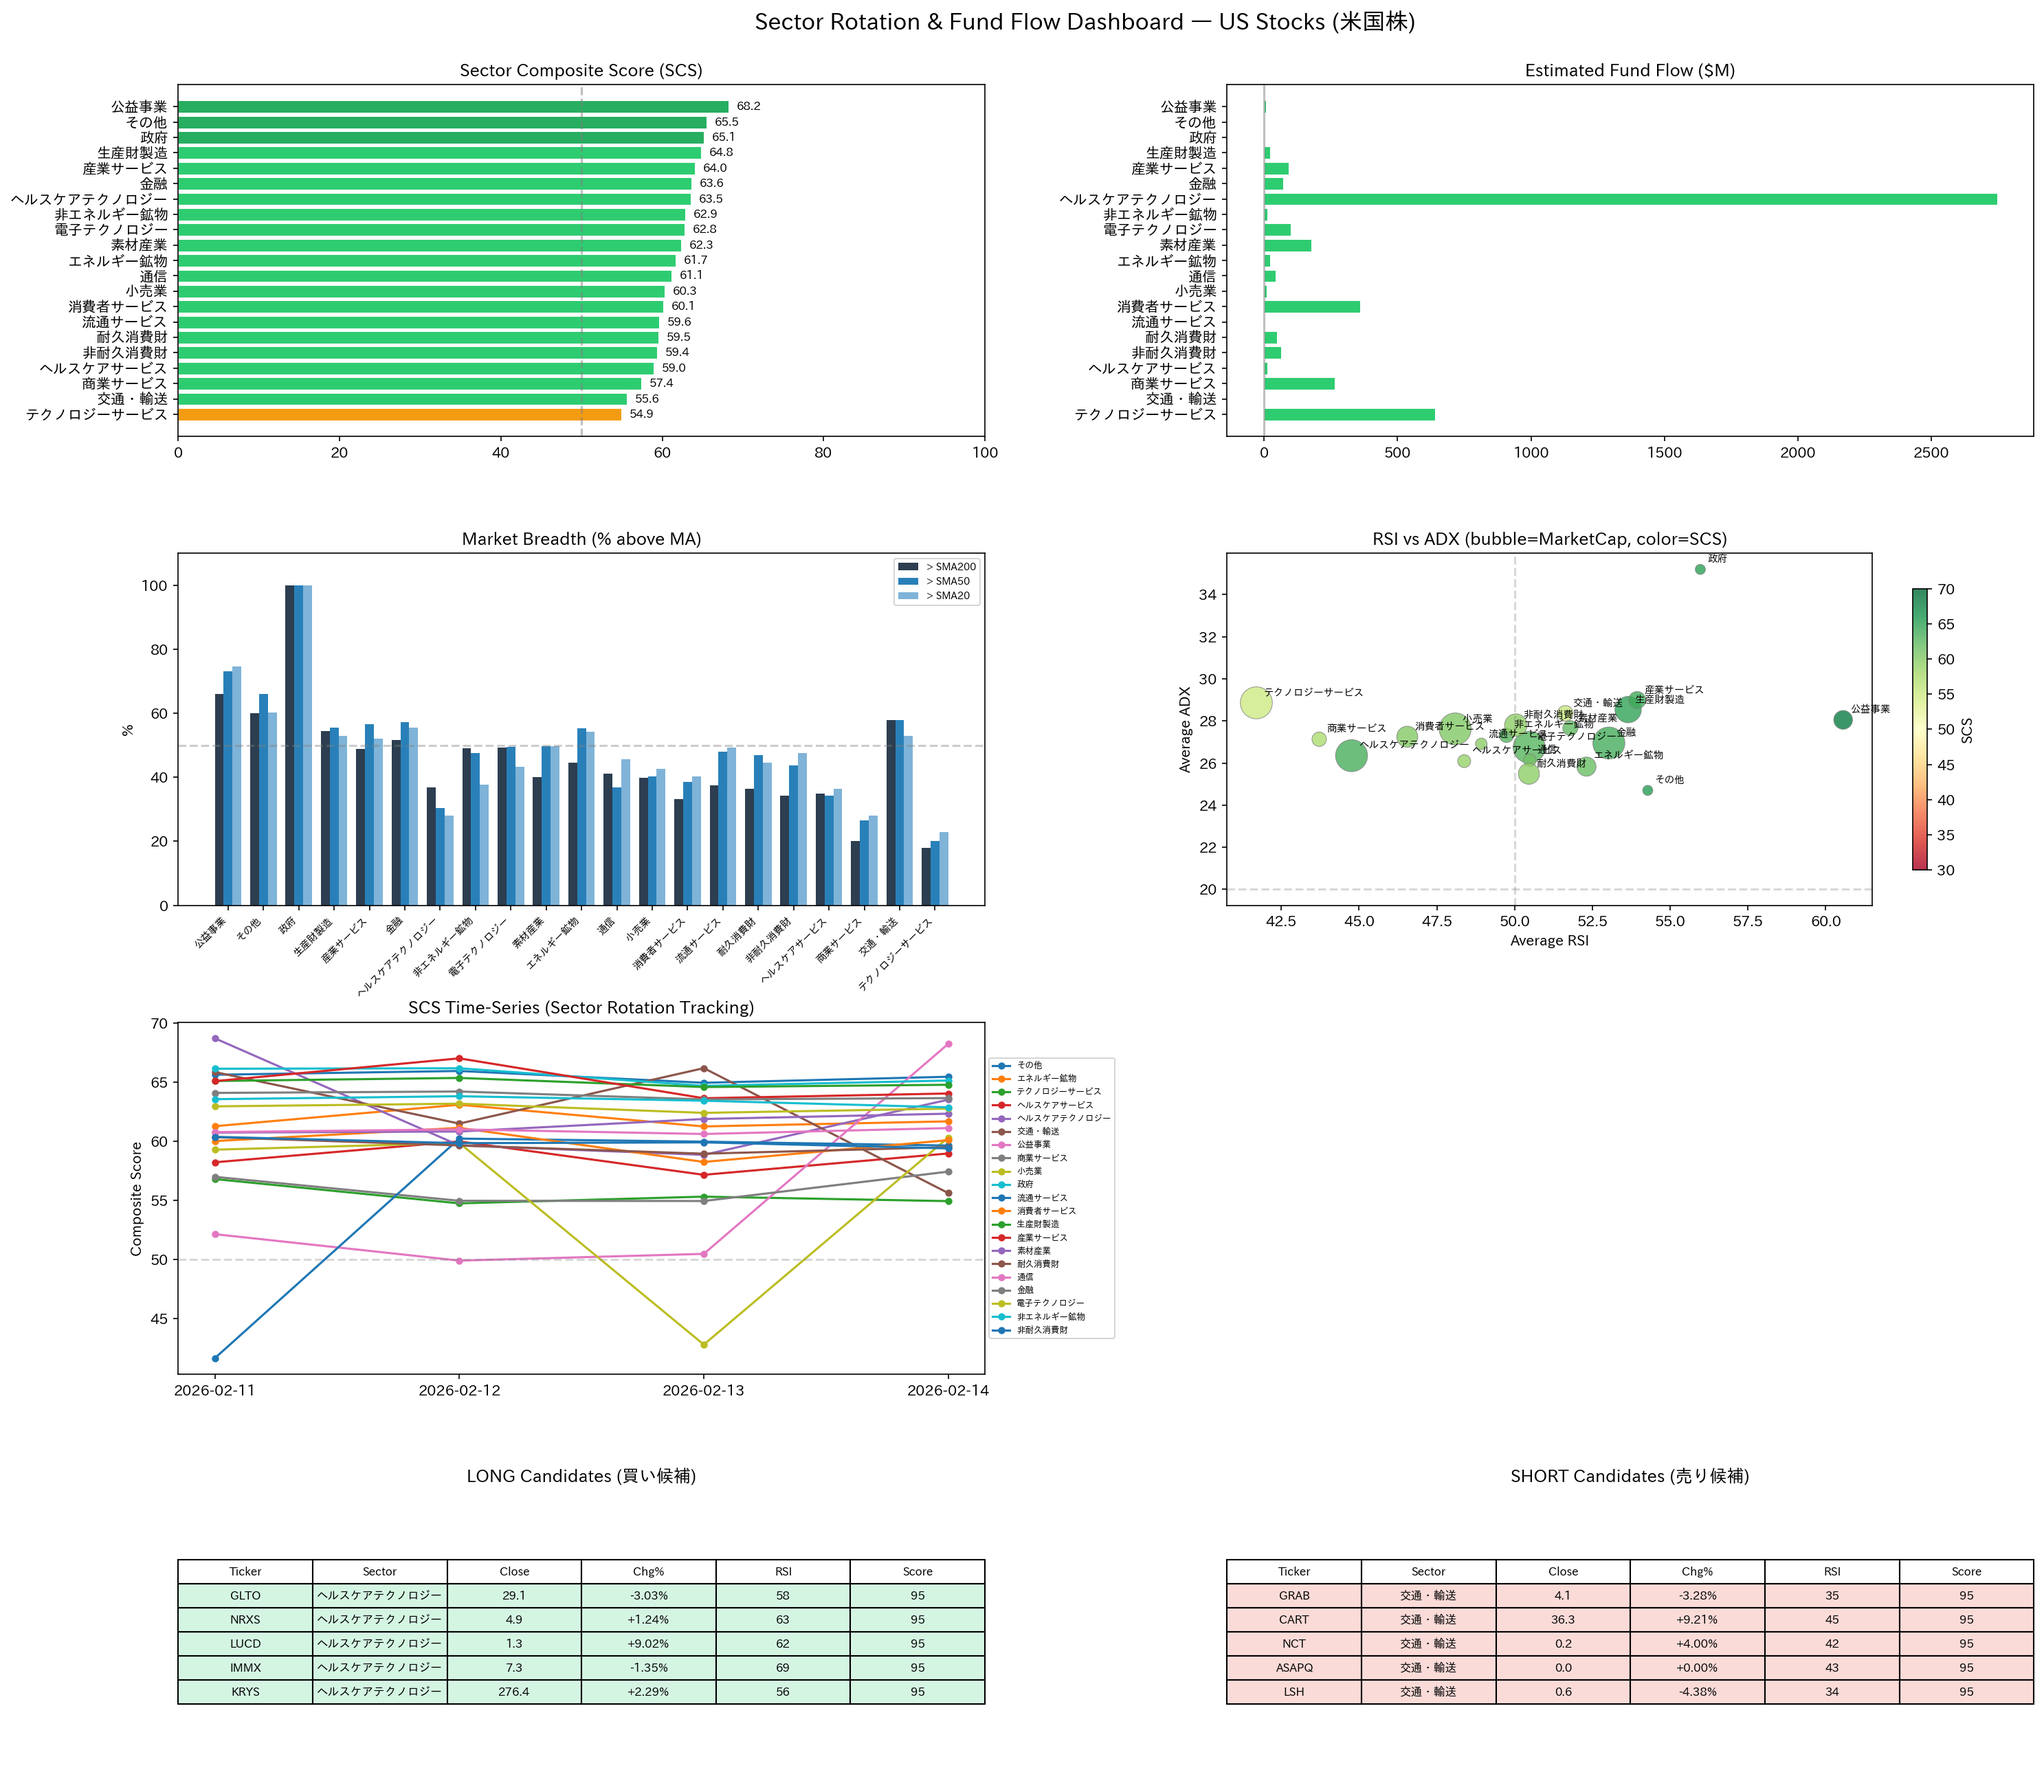
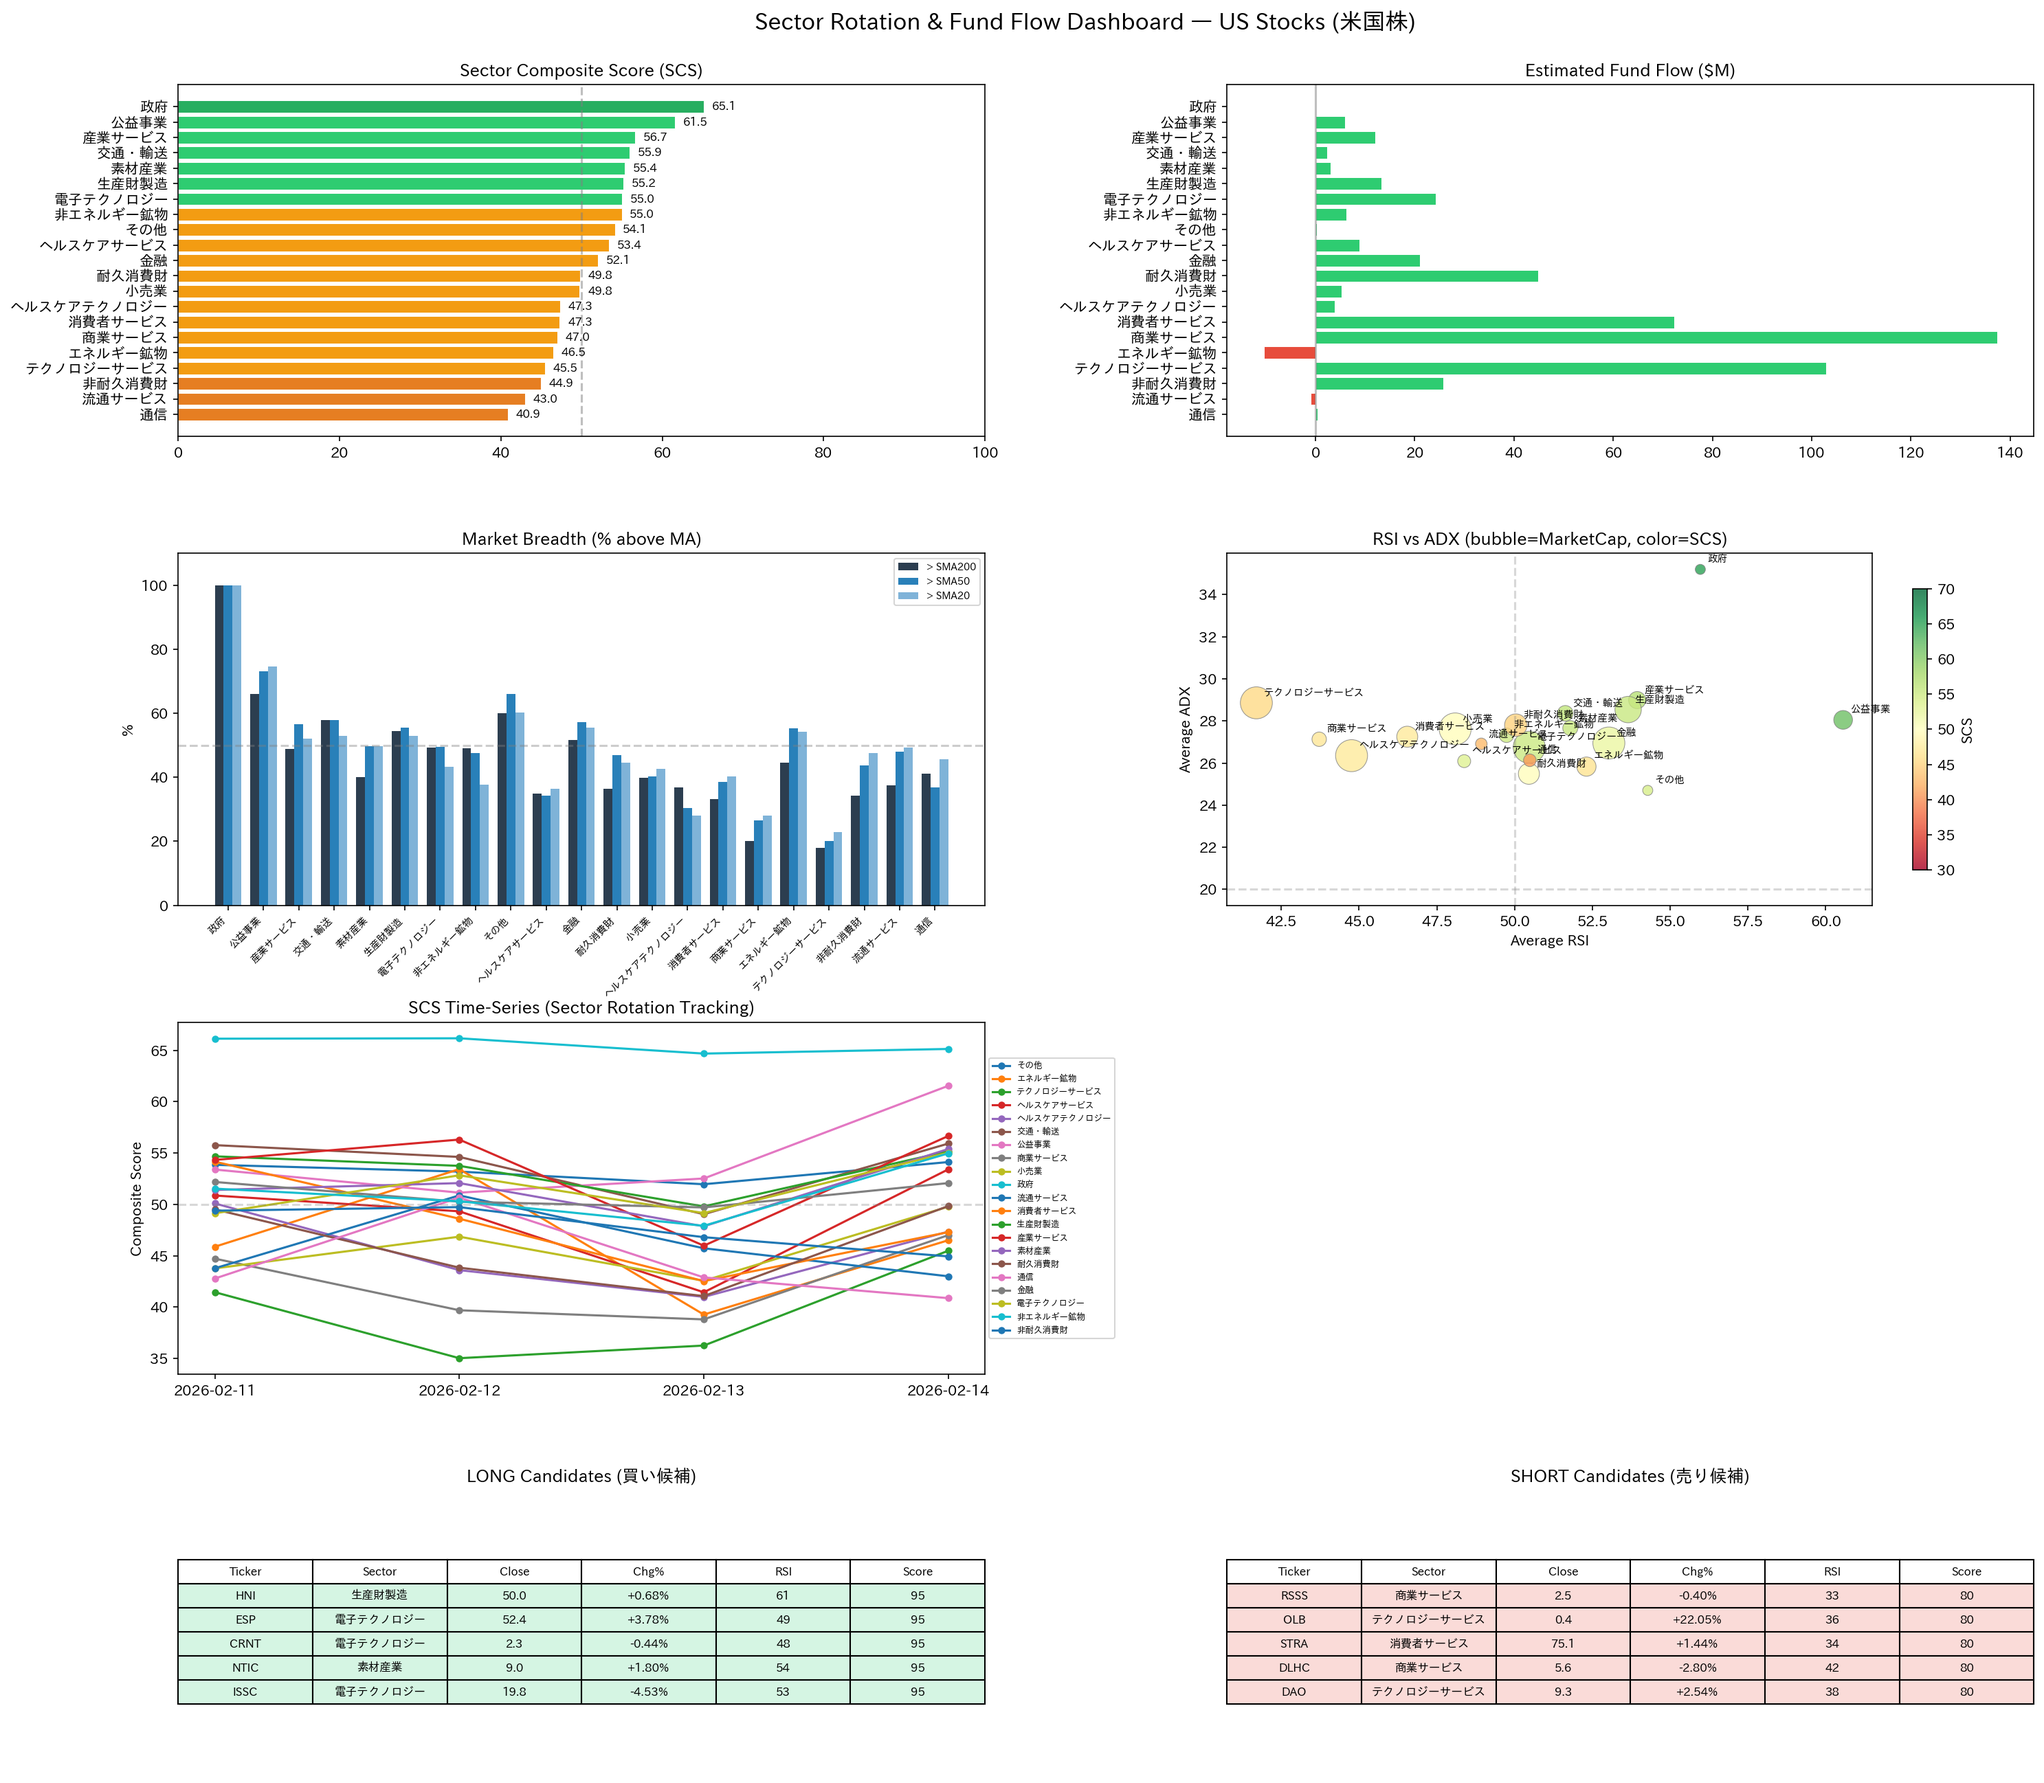
Fix US fund flow skewed by penny stock outliers
Penny stocks with extreme Change% values (e.g. PLPL +9,900%,
TMNA +1,499,900%) were dominating the fund flow calculation,
making nearly every US sector appear to have positive inflows.

Root cause: Change% is mathematically asymmetric (-100% floor
but unlimited upside), so a few extreme penny stock gains
overwhelm all negative flows.

Fix: Clamp Change% to ±50% before computing fund flow and
sector average change. This removes outlier distortion while
preserving meaningful signals from normal stocks.

Before: 20/21 US sectors showed inflows (only 流通サービス negative)
After:  エネルギー鉱物 -$10.5M, 流通サービス -$1.0M correctly negative

https://claude.ai/code/session_012j5HkUiPyKLfhtvkjNH37o

diff --git a/screener/sector_flow_analyzer.py b/screener/sector_flow_analyzer.py
@@ -342,7 +342,8 @@ def compute_sector_metrics(df: pd.DataFrame, date_label: str) -> list[SectorMetr
         n = len(group)
 
         # --- 基本統計 ---
-        avg_change = group["Change %"].mean() if "Change %" in group else 0.0
+        # ペニー株の極端な変動率を ±50% でクランプしてから平均
+        avg_change = group["Change %"].clip(lower=-50, upper=50).mean() if "Change %" in group else 0.0
         avg_rsi = group["RSI"].mean() if "RSI" in group else 50.0
         avg_adx = group["ADX"].mean() if "ADX" in group else 0.0
 
@@ -358,9 +359,11 @@ def compute_sector_metrics(df: pd.DataFrame, date_label: str) -> list[SectorMetr
 
         # --- 推定資金フロー ---
         # Fund Flow = Σ (Volume × Change% / 100)  出来高加重の方向性フロー
+        # ペニー株の極端な変動率（+999,900% 等）が全体を歪めるため ±50% でクランプ
         fund_flow = 0.0
         if "Volume" in group and "Change %" in group:
-            fund_flow = (group["Volume"] * group["Change %"] / 100.0).sum()
+            clamped_change = group["Change %"].clip(lower=-50, upper=50)
+            fund_flow = (group["Volume"] * clamped_change / 100.0).sum()
 
         avg_rvol = group["Relative Volume"].mean() if "Relative Volume" in group else 1.0
         total_mcap = group["Market Cap"].sum() if "Market Cap" in group else 0.0
